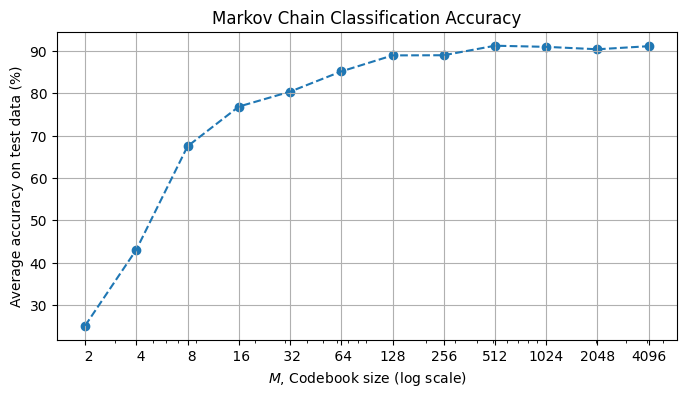
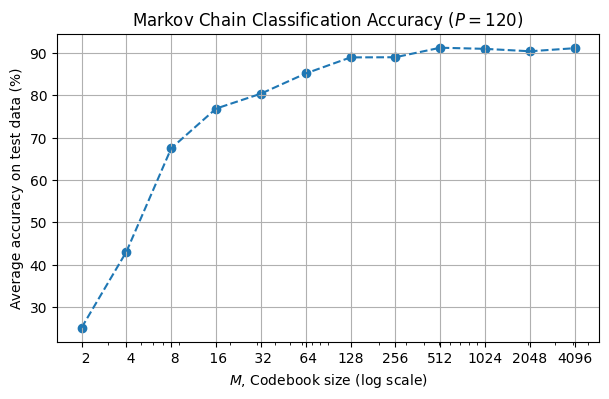
add VQ based classif (P=120)

Changed region(s): [[0.0, 0.0302, 0.9984, 0.9673], [0.2496, 0.6348, 0.312, 0.6952], [0.78, 0.6348, 0.8112, 0.6952]]

diff --git a/workspace/P120/vq-scatter.py b/workspace/P120/vq-scatter.py
@@ -3,7 +3,7 @@ import pandas as pd
 import matplotlib.pyplot as plt
 
 # RUN:
-#   python3 ./mm-scatter.py mm-summary.csv
+#   python3 ./vq-scatter.py vq-summary.csv
 
 
 def plot_csv(filename):
@@ -23,16 +23,16 @@ def plot_csv(filename):
     plt.xscale('log')
     plt.xticks(ms, labels=['{:3}'.format(m) for m in ms])
     plt.grid(True)
-    plt.title('Markov Chain Classification Accuracy ($P=120$)')
+    plt.title('VQ Based Classification Accuracy ($P=120$)')
 
-    fig.savefig('mm-scatter.png', bbox_inches='tight')
+    fig.savefig('vq-scatter.png', bbox_inches='tight')
     # plt.show(block=True)
 
 
 if __name__ == "__main__":
     from sys import argv
     if len(argv) < 2:
-        print('USAGE: mm-scatter.py <csv-filename>')
+        print('USAGE: vq-scatter.py <csv-filename>')
         exit(1)
 
     csv_filename = argv[1]
